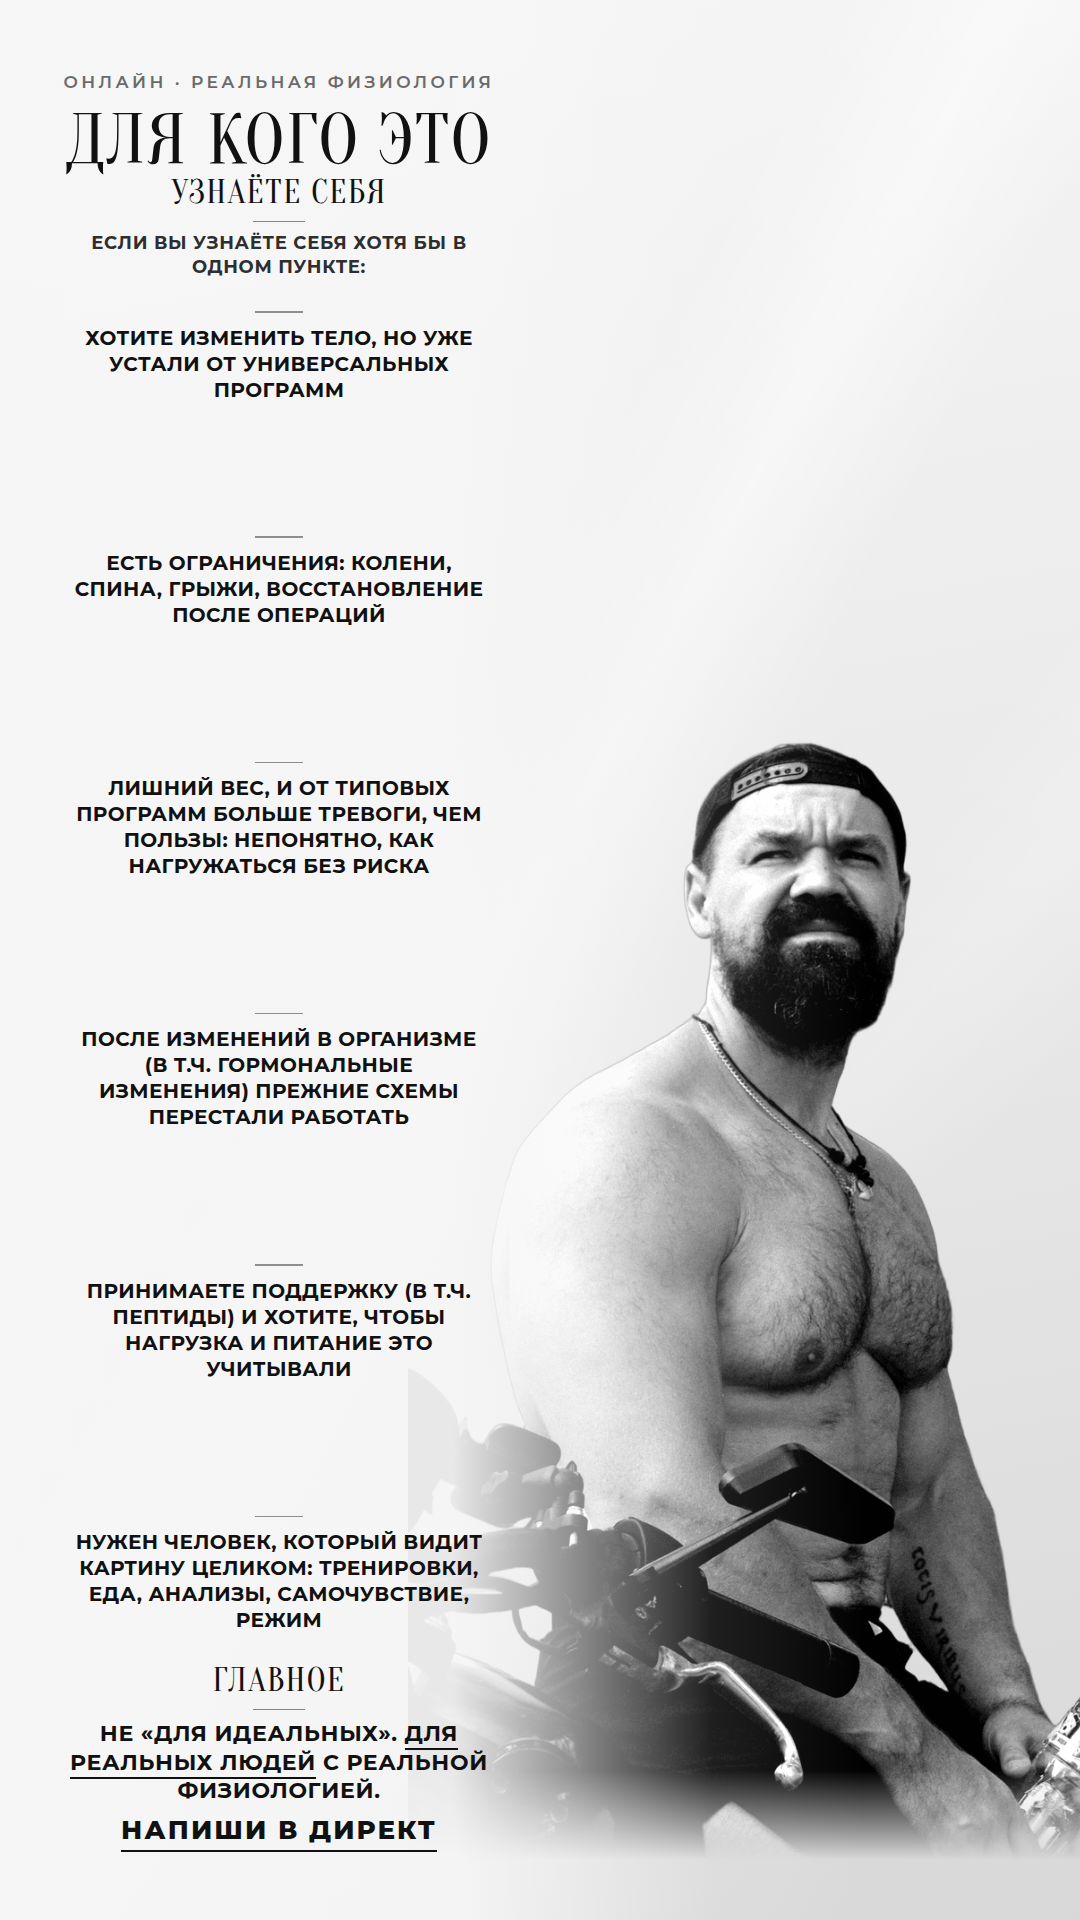
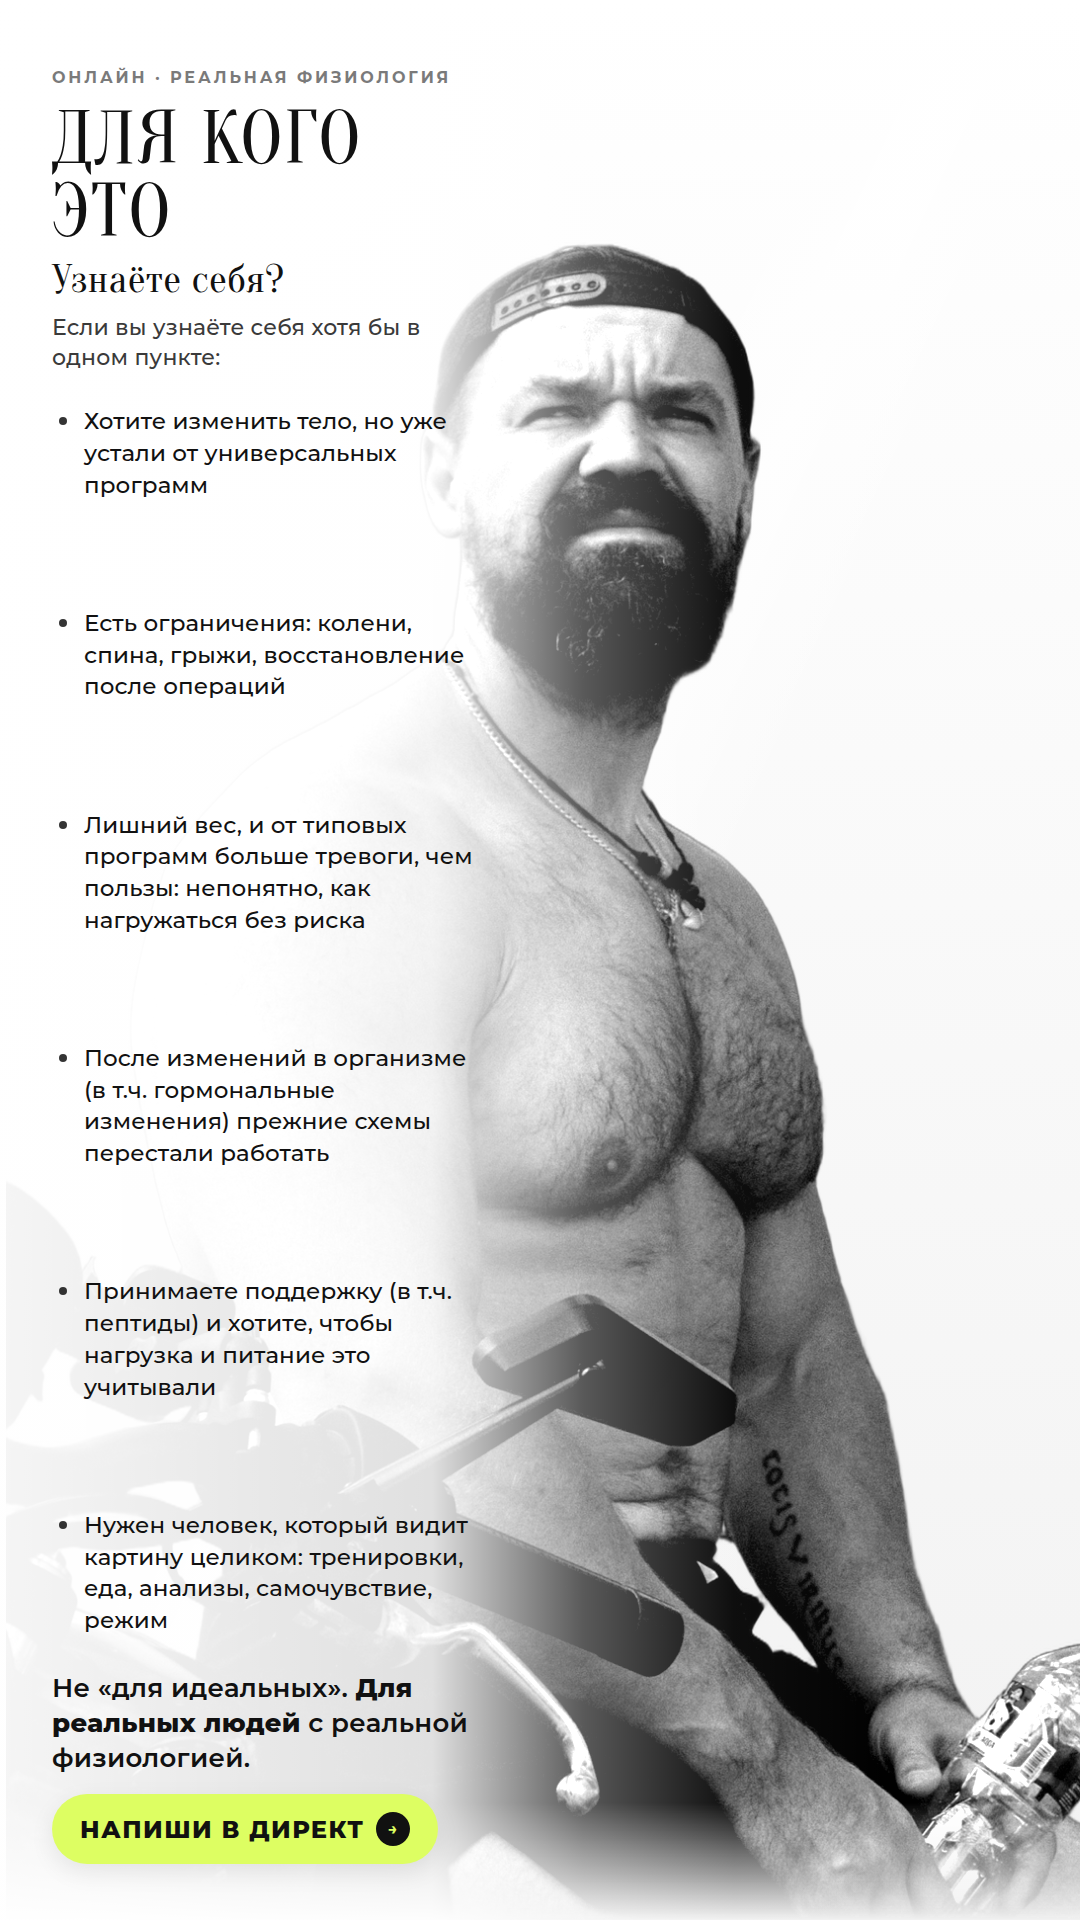
Apply revised slide prompt: sentence case, no rules, lime CTA
Drop horizontal dividers and all-caps list text. Left-align airy
sentence-case bullets on a bright high-key white field, keep Artur
with bike on the right, and use a tariff-style lime Direct CTA.

diff --git a/stories/dlya-kogo.html b/stories/dlya-kogo.html
@@ -7,19 +7,21 @@
   <link rel="stylesheet" href="fonts/fonts-ref.css" />
   <style>
     /*
-      Как референс с девушкой:
-      — Артур с байком справа, масштаб ~как девушка (правый нижний/средний план)
-      — текст слева на светлом фоне, без плашек; блок 2 отцентрован
-      — отступы соблюдены: текст не заходит на тёмный силуэт
+      Промпт v3:
+      — без горизонтальных линий над пунктами
+      — список Sentence case, капс только у заголовков
+      — левое выравнивание, воздух между пунктами
+      — ярко-белый high-key фон, без серых виньеток
+      — Артур справа 50–55%, с байком
+      — CTA салатовая плашка как у тарифа
     */
     :root {
       --ink: #111111;
-      --muted: #2E2E2E;
-      --soft: #6A6A6A;
-      --line: rgba(17, 17, 17, 0.28);
-      --bg-hi: #F6F6F6;
-      --bg: #EAEAEA;
-      --bg-lo: #D8D8D8;
+      --muted: #3A3A3A;
+      --soft: #7A7A7A;
+      --accent: #DDFE62;
+      --bg: #FFFFFF;
+      --bg-soft: #F7F7F7;
     }
 
     * { box-sizing: border-box; margin: 0; padding: 0; }
@@ -38,28 +40,26 @@
       overflow: hidden;
       color: var(--ink);
       font-family: "Montserrat", sans-serif;
-      text-transform: uppercase;
       background:
-        linear-gradient(118deg, transparent 0%, transparent 40%, rgba(255,255,255,0.48) 48%, transparent 56%),
-        linear-gradient(132deg, transparent 0%, transparent 58%, rgba(255,255,255,0.2) 65%, transparent 72%),
-        radial-gradient(ellipse 90% 50% at 8% 0%, #FFFFFF 0%, transparent 55%),
-        linear-gradient(170deg, var(--bg-hi) 0%, var(--bg) 48%, var(--bg-lo) 100%);
+        linear-gradient(115deg, transparent 42%, rgba(255,255,255,0.65) 50%, transparent 58%),
+        radial-gradient(ellipse 80% 45% at 15% 0%, #FFFFFF 0%, transparent 60%),
+        linear-gradient(180deg, #FFFFFF 0%, #F8F8F8 55%, #F2F2F2 100%);
     }
 
-    /* Артур с байком — правая половина, масштаб как девушка на референсе */
+    /* Артур с байком — правая половина ~50–55% */
     .photo {
       position: absolute;
-      right: -90px;
-      bottom: 60px;
-      height: 1120px;
+      right: -70px;
+      bottom: 0;
+      height: 1680px;
       width: auto;
       z-index: 1;
       pointer-events: none;
       user-select: none;
-      filter: contrast(1.05) brightness(1.1);
+      filter: contrast(1.08) brightness(1.12);
     }
 
-    /* сильная светлая зона слева — блок 2 читается, не размазывается по фото */
+    /* светлая зона слева для читаемости — без мрачной виньетки */
     .veil {
       position: absolute;
       inset: 0;
@@ -67,146 +67,152 @@
       pointer-events: none;
       background: linear-gradient(
         90deg,
-        rgba(246,246,246,0.97) 0%,
-        rgba(246,246,246,0.94) 42%,
-        rgba(246,246,246,0.55) 54%,
-        rgba(246,246,246,0.12) 66%,
-        transparent 80%
+        rgba(255,255,255,0.96) 0%,
+        rgba(255,255,255,0.88) 40%,
+        rgba(255,255,255,0.35) 54%,
+        rgba(255,255,255,0.05) 68%,
+        transparent 82%
       );
     }
 
     .col {
       position: relative;
       z-index: 3;
-      width: 470px;
+      width: 500px;
       height: 100%;
-      margin-left: 56px;
-      padding: 72px 24px 68px 0;
+      padding: 68px 24px 56px 52px;
       display: flex;
       flex-direction: column;
       justify-content: space-between;
-      align-items: center;
-      text-align: center;
+      text-align: left;
     }
 
     .eyebrow {
-      font-size: 17px;
-      font-weight: 600;
-      letter-spacing: 0.2em;
+      font-size: 16px;
+      font-weight: 700;
+      letter-spacing: 0.18em;
       color: var(--soft);
-      width: 100%;
+      text-transform: uppercase;
     }
 
     .title {
       font-family: "Oranienbaum", "Playfair Display", serif;
       font-weight: 400;
-      font-size: 72px;
+      font-size: 76px;
       line-height: 0.96;
       letter-spacing: 0.02em;
       color: var(--ink);
-      margin-top: 14px;
-      width: 100%;
+      text-transform: uppercase;
+      margin-top: 16px;
     }
 
     .intro {
-      width: 100%;
-      padding: 0 12px;
+      margin-top: 8px;
     }
 
-    .block-label {
+    .intro h2 {
       font-family: "Oranienbaum", "Playfair Display", serif;
-      font-size: 34px;
+      font-size: 40px;
       font-weight: 400;
-      letter-spacing: 0.04em;
-      line-height: 1.05;
+      letter-spacing: 0.01em;
+      line-height: 1.1;
       color: var(--ink);
+      text-transform: none;
     }
 
-    .block-lead {
-      margin-top: 10px;
-      font-size: 18px;
-      font-weight: 700;
-      letter-spacing: 0.04em;
-      line-height: 1.3;
+    .intro p {
+      margin-top: 12px;
+      font-size: 22px;
+      font-weight: 500;
+      line-height: 1.35;
+      letter-spacing: 0.01em;
       color: var(--muted);
+      text-transform: none;
+      max-width: 440px;
     }
 
-    .rule {
-      width: 52px;
-      height: 1.5px;
-      background: var(--ink);
-      opacity: 0.5;
-      margin: 10px auto 0;
-    }
-
-    /* Блок 2 — по центру колонки, отступы, читаемый */
     .list {
+      list-style: none;
       display: flex;
       flex-direction: column;
       justify-content: space-between;
       flex: 1;
       min-height: 0;
-      width: 100%;
-      margin: 16px 0;
-      padding: 0 8px;
+      margin: 28px 0;
+      gap: 8px;
+      padding: 0;
     }
 
-    .item {
-      font-size: 20px;
-      font-weight: 700;
-      letter-spacing: 0.02em;
-      line-height: 1.3;
+    .list li {
+      display: grid;
+      grid-template-columns: 22px 1fr;
+      gap: 10px;
+      align-items: start;
+      font-size: 23px;
+      font-weight: 500;
+      line-height: 1.38;
+      letter-spacing: 0.005em;
       color: var(--ink);
-      padding: 16px 8px 14px;
-      width: 100%;
-      position: relative;
+      text-transform: none;
+      max-width: 450px;
+      padding: 6px 0;
     }
 
-    .item::before {
-      content: "";
-      display: block;
-      width: 48px;
-      height: 1.5px;
+    .list li .dot {
+      width: 8px;
+      height: 8px;
+      margin-top: 11px;
+      border-radius: 50%;
       background: var(--ink);
-      opacity: 0.45;
-      margin: 0 auto 12px;
-    }
-
-    .item:last-child {
-      border-bottom: none;
+      opacity: 0.85;
+      justify-self: center;
     }
 
     .finale {
-      width: 100%;
-      padding: 0 12px;
-    }
-
-    .finale .block-label {
-      margin-bottom: 4px;
+      max-width: 450px;
     }
 
     .finale p {
-      margin-top: 10px;
-      font-size: 22px;
-      font-weight: 700;
-      letter-spacing: 0.03em;
-      line-height: 1.3;
+      font-size: 26px;
+      font-weight: 600;
+      line-height: 1.35;
+      letter-spacing: 0.01em;
       color: var(--ink);
+      text-transform: none;
     }
 
     .finale p .em {
-      border-bottom: 2px solid var(--ink);
-      padding-bottom: 1px;
+      font-weight: 800;
     }
 
     .cta {
-      font-size: 26px;
+      display: inline-flex;
+      align-items: center;
+      align-self: flex-start;
+      gap: 12px;
+      margin-top: 18px;
+      background: var(--accent);
+      color: #111;
+      border-radius: 999px;
+      padding: 18px 28px;
+      font-size: 24px;
       font-weight: 800;
-      letter-spacing: 0.08em;
-      color: var(--ink);
-      border-bottom: 2px solid var(--ink);
-      padding-bottom: 4px;
-      margin-top: 8px;
+      letter-spacing: 0.06em;
+      text-transform: uppercase;
+      box-shadow: 0 8px 24px rgba(0, 0, 0, 0.08);
+    }
+
+    .cta .arrow {
+      width: 34px;
+      height: 34px;
+      border-radius: 50%;
+      background: #111;
+      color: var(--accent);
+      display: grid;
+      place-items: center;
+      font-size: 16px;
+      font-weight: 700;
+      line-height: 1;
     }
   </style>
 </head>
@@ -219,30 +225,28 @@
       <header>
         <div class="eyebrow">Онлайн · реальная физиология</div>
         <h1 class="title">Для кого это</h1>
+        <div class="intro">
+          <h2>Узнаёте себя?</h2>
+          <p>Если вы узнаёте себя хотя бы в одном пункте:</p>
+        </div>
       </header>
 
-      <section class="intro">
-        <div class="block-label">Узнаёте себя</div>
-        <div class="rule"></div>
-        <p class="block-lead">Если вы узнаёте себя хотя бы в одном пункте:</p>
-      </section>
+      <ul class="list">
+        <li><span class="dot"></span><span>Хотите изменить тело, но уже устали от универсальных программ</span></li>
+        <li><span class="dot"></span><span>Есть ограничения: колени, спина, грыжи, восстановление после операций</span></li>
+        <li><span class="dot"></span><span>Лишний вес, и от типовых программ больше тревоги, чем пользы: непонятно, как нагружаться без риска</span></li>
+        <li><span class="dot"></span><span>После изменений в организме (в т.ч. гормональные изменения) прежние схемы перестали работать</span></li>
+        <li><span class="dot"></span><span>Принимаете поддержку (в т.ч. пептиды) и хотите, чтобы нагрузка и питание это учитывали</span></li>
+        <li><span class="dot"></span><span>Нужен человек, который видит картину целиком: тренировки, еда, анализы, самочувствие, режим</span></li>
+      </ul>
 
-      <div class="list">
-        <div class="item">Хотите изменить тело, но уже устали от универсальных программ</div>
-        <div class="item">Есть ограничения: колени, спина, грыжи, восстановление после операций</div>
-        <div class="item">Лишний вес, и от типовых программ больше тревоги, чем пользы: непонятно, как нагружаться без риска</div>
-        <div class="item">После изменений в организме (в т.ч. гормональные изменения) прежние схемы перестали работать</div>
-        <div class="item">Принимаете поддержку (в т.ч. пептиды) и хотите, чтобы нагрузка и питание это учитывали</div>
-        <div class="item">Нужен человек, который видит картину целиком: тренировки, еда, анализы, самочувствие, режим</div>
-      </div>
-
-      <section class="finale">
-        <div class="block-label">Главное</div>
-        <div class="rule"></div>
+      <div class="finale">
         <p>Не «для идеальных». <span class="em">Для реальных людей</span> с реальной физиологией.</p>
-      </section>
-
-      <div class="cta">Напиши в директ</div>
+        <div class="cta">
+          Напиши в директ
+          <span class="arrow">→</span>
+        </div>
+      </div>
     </div>
   </div>
 </body>
